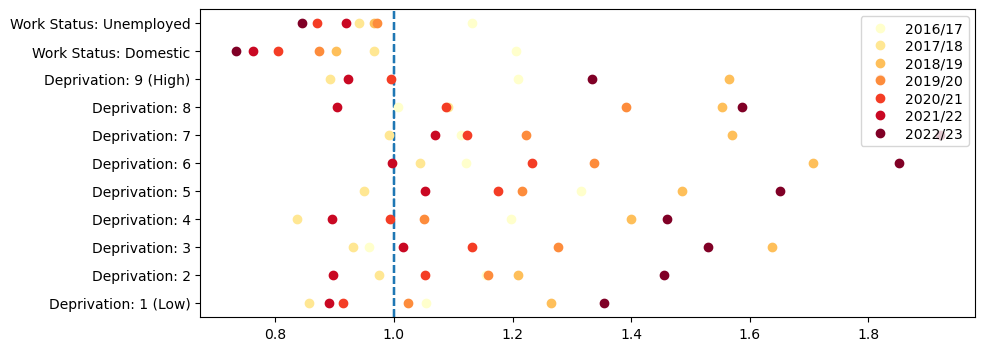
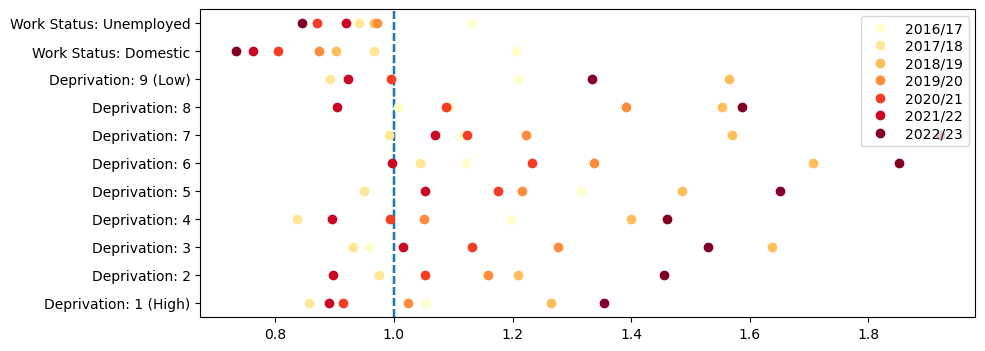
KAN-112: Fix coefficient deprivation direction

Changed region(s): [[0.0305, 0.1994, 0.2132, 0.2564], [0.0305, 0.8547, 0.2132, 0.8832]]

diff --git a/src/stream_2/coef_generation.py b/src/stream_2/coef_generation.py
@@ -14,9 +14,9 @@ from models.stream_2.bayesian_ridge import Bayesian
 from models.stream_2.exponential_smoothing import ExponentialSmoothingModels
 
 LABEL_MAP = {'WorkStat8_2' : 'Work Status: Unemployed', 'WorkStat8_4' : 'Work Status: Domestic',
-             'IMD10_9' : 'Deprivation: 9 (High)', 'IMD10_8' : 'Deprivation: 8', 'IMD10_7' : 'Deprivation: 7',
+             'IMD10_9' : 'Deprivation: 9 (Low)', 'IMD10_8' : 'Deprivation: 8', 'IMD10_7' : 'Deprivation: 7',
              'IMD10_6' : 'Deprivation: 6', 'IMD10_5' : 'Deprivation: 5', 'IMD10_4' : 'Deprivation: 4',
-             'IMD10_3' : 'Deprivation: 3', 'IMD10_2' : 'Deprivation: 2', 'IMD10_1' : 'Deprivation: 1 (Low)'}
+             'IMD10_3' : 'Deprivation: 3', 'IMD10_2' : 'Deprivation: 2', 'IMD10_1' : 'Deprivation: 1 (High)'}
 
 class CoefGeneration:
     def __init__(self, model: str, df : pd.DataFrame):
